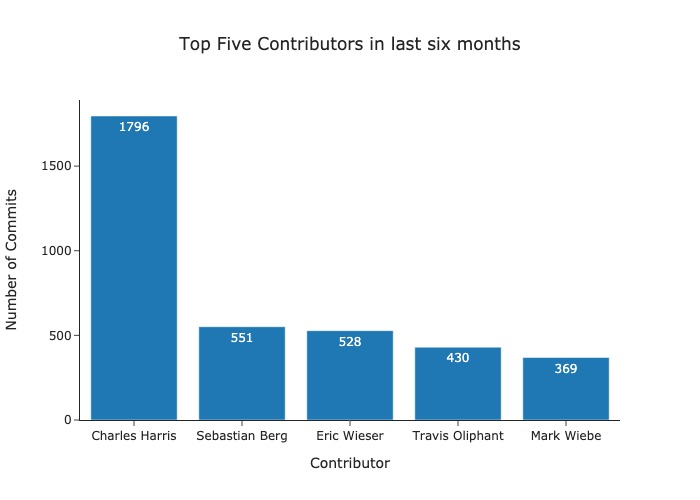
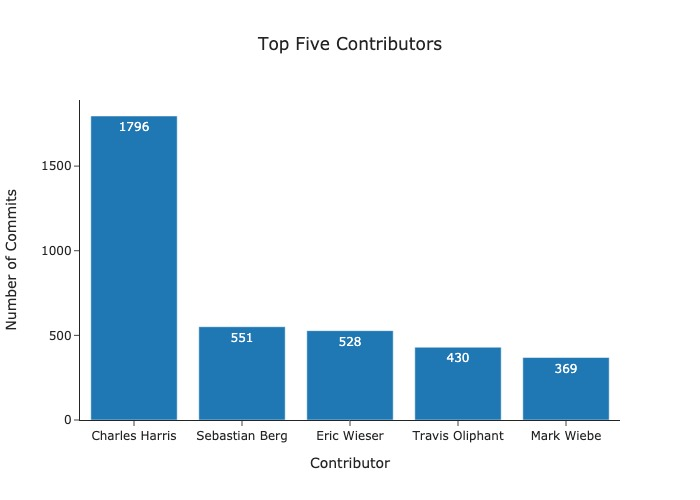
File update

Changed region(s): [[0.24, 0.06, 0.75, 0.12]]

diff --git a/CCoverage.py b/CCoverage.py
@@ -1,0 +1,184 @@
+#!/usr/bin/env python3
+"""
+A script to create C code-coverage reports based on the output of
+valgrind's callgrind tool.
+
+"""
+import os
+import re
+import sys
+from xml.sax.saxutils import quoteattr, escape
+
+try:
+    import pygments
+    if tuple([int(x) for x in pygments.__version__.split('.')]) < (0, 11):
+        raise ImportError()
+    from pygments import highlight
+    from pygments.lexers import CLexer
+    from pygments.formatters import HtmlFormatter
+    has_pygments = True
+except ImportError:
+    print("This script requires pygments 0.11 or greater to generate HTML")
+    has_pygments = False
+
+
+class FunctionHtmlFormatter(HtmlFormatter):
+    """Custom HTML formatter to insert extra information with the lines."""
+    def __init__(self, lines, **kwargs):
+        HtmlFormatter.__init__(self, **kwargs)
+        self.lines = lines
+
+    def wrap(self, source, outfile):
+        for i, (c, t) in enumerate(HtmlFormatter.wrap(self, source, outfile)):
+            as_functions = self.lines.get(i-1, None)
+            if as_functions is not None:
+                yield 0, ('<div title=%s style="background: #ccffcc">[%2d]' %
+                          (quoteattr('as ' + ', '.join(as_functions)),
+                           len(as_functions)))
+            else:
+                yield 0, '    '
+            yield c, t
+            if as_functions is not None:
+                yield 0, '</div>'
+
+
+class SourceFile:
+    def __init__(self, path):
+        self.path = path
+        self.lines = {}
+
+    def mark_line(self, lineno, as_func=None):
+        line = self.lines.setdefault(lineno, set())
+        if as_func is not None:
+            as_func = as_func.split("'", 1)[0]
+            line.add(as_func)
+
+    def write_text(self, fd):
+        source = open(self.path, "r")
+        for i, line in enumerate(source):
+            if i + 1 in self.lines:
+                fd.write("> ")
+            else:
+                fd.write("! ")
+            fd.write(line)
+        source.close()
+
+    def write_html(self, fd):
+        source = open(self.path, 'r')
+        code = source.read()
+        lexer = CLexer()
+        formatter = FunctionHtmlFormatter(
+            self.lines,
+            full=True,
+            linenos='inline')
+        fd.write(highlight(code, lexer, formatter))
+        source.close()
+
+
+class SourceFiles:
+    def __init__(self):
+        self.files = {}
+        self.prefix = None
+
+    def get_file(self, path):
+        if path not in self.files:
+            self.files[path] = SourceFile(path)
+            if self.prefix is None:
+                self.prefix = path
+            else:
+                self.prefix = os.path.commonprefix([self.prefix, path])
+        return self.files[path]
+
+    def clean_path(self, path):
+        path = path[len(self.prefix):]
+        return re.sub(r"[^A-Za-z0-9\.]", '_', path)
+
+    def write_text(self, root):
+        for path, source in self.files.items():
+            fd = open(os.path.join(root, self.clean_path(path)), "w")
+            source.write_text(fd)
+            fd.close()
+
+    def write_html(self, root):
+        for path, source in self.files.items():
+            fd = open(os.path.join(root, self.clean_path(path) + ".html"), "w")
+            source.write_html(fd)
+            fd.close()
+
+        fd = open(os.path.join(root, 'index.html'), 'w')
+        fd.write("<html>")
+        paths = sorted(self.files.keys())
+        for path in paths:
+            fd.write('<p><a href="%s.html">%s</a></p>' %
+                     (self.clean_path(path), escape(path[len(self.prefix):])))
+        fd.write("</html>")
+        fd.close()
+
+
+def collect_stats(files, fd, pattern):
+    # TODO: Handle compressed callgrind files
+    line_regexs = [
+        re.compile(r"(?P<lineno>[0-9]+)(\s[0-9]+)+"),
+        re.compile(r"((jump)|(jcnd))=([0-9]+)\s(?P<lineno>[0-9]+)")
+        ]
+
+    current_file = None
+    current_function = None
+    for i, line in enumerate(fd):
+        if re.match("f[lie]=.+", line):
+            path = line.split('=', 2)[1].strip()
+            if os.path.exists(path) and re.search(pattern, path):
+                current_file = files.get_file(path)
+            else:
+                current_file = None
+        elif re.match("fn=.+", line):
+            current_function = line.split('=', 2)[1].strip()
+        elif current_file is not None:
+            for regex in line_regexs:
+                match = regex.match(line)
+                if match:
+                    lineno = int(match.group('lineno'))
+                    current_file.mark_line(lineno, current_function)
+
+
+if __name__ == '__main__':
+    import argparse
+
+    parser = argparse.ArgumentParser(description=__doc__)
+    parser.add_argument(
+        'callgrind_file', nargs='+',
+        help='One or more callgrind files')
+    parser.add_argument(
+        '-d', '--directory', default='coverage',
+        help='Destination directory for output (default: %(default)s)')
+    parser.add_argument(
+        '-p', '--pattern', default='numpy',
+        help='Regex pattern to match against source file paths '
+             '(default: %(default)s)')
+    parser.add_argument(
+        '-f', '--format', action='append', default=[],
+        choices=['text', 'html'],
+        help="Output format(s) to generate. "
+             "If option not provided, both will be generated.")
+    args = parser.parse_args()
+
+    files = SourceFiles()
+    for log_file in args.callgrind_file:
+        log_fd = open(log_file, 'r')
+        collect_stats(files, log_fd, args.pattern)
+        log_fd.close()
+
+    if not os.path.exists(args.directory):
+        os.makedirs(args.directory)
+
+    if args.format == []:
+        formats = ['text', 'html']
+    else:
+        formats = args.format
+    if 'text' in formats:
+        files.write_text(args.directory)
+    if 'html' in formats:
+        if not has_pygments:
+            print("Pygments 0.11 or later is required to generate HTML")
+            sys.exit(1)
+        files.write_html(args.directory)

diff --git a/CustomFiles/gen-figure.py b/CustomFiles/gen-figure.py
@@ -73,7 +73,7 @@ def Fig5():
     top5.head
 
     fig = px.bar(top5, x = top5["Contributor"], y = top5["Commits"],
-                    title="Top Five Contributors in last six months",
+                    title="Top Five Contributors",
                     labels={'Contributor' : 'Contributor', 'Commits':'Number of Commits'}, 
                     text_auto=True, template="simple_white").update(layout=dict(title=dict(x=0.5)))
 
@@ -99,7 +99,7 @@ def Fig7():
     commits_year_wise.head
 
     fig = px.line(commits_year_wise, x="Year", y="Commits",
-                title="Commits over years",
+                title="Test Files over the years",
                 labels={'Year': 'Year', 'Commits':'Number of Commits'}, template="simple_white").update(layout=dict(title=dict(x=0.5)))
 
     fig.write_image(dir_store+"/figures/CommitsOverYears.jpg")

diff --git a/CustomFiles/gen_data.py b/CustomFiles/gen_data.py
@@ -139,7 +139,7 @@ def WriteToFiles():
     # for k, v in dict_author_count.items():
     #     top_five_contributors.write("%s, %d\n" % (str(k), v))
     for k, v in sorted_d.items():
-        if top_five_count <=5:
+        if top_five_count <5:
             top_five_contributors.write("%s, %d\n" % (str(k), v))
         else:
             break
